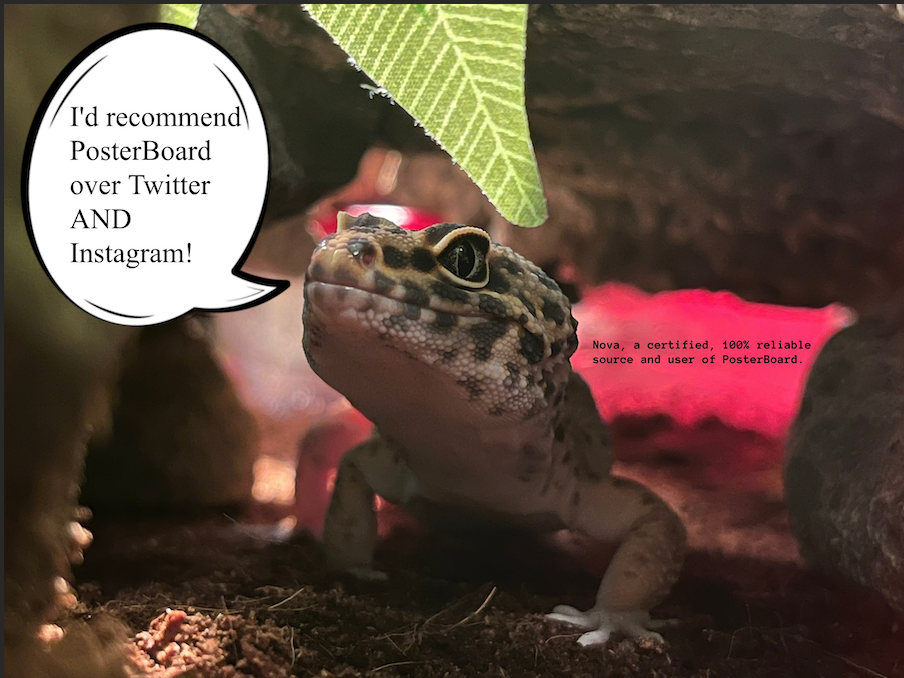
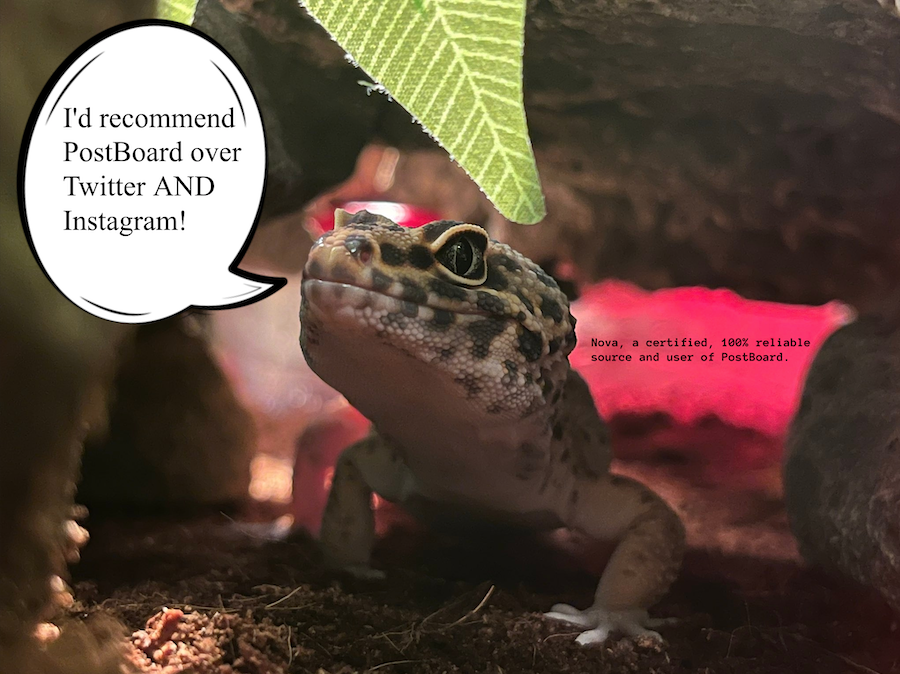
A few annoying typos, fixed

diff --git a/templates/logged_in.html b/templates/logged_in.html
@@ -9,13 +9,12 @@
 
 {% block body %}
 <div class="title">
-    <h1 style="text-align: center">PosterBoard</h1>
+    <h1 style="text-align: center">PostBoard</h1>
     <h2 style="text-align: center">The place for posting stuff.</h2>
     <br>
 </div>
 <div style="text-align: center"; class="header_buttons">
     <a href="/logout">Logout</a>
-    <a href="/login">Login</a>
     <a href="/page3">Post</a>
 </div>
 <br>

diff --git a/templates/index.html b/templates/index.html
@@ -2,7 +2,7 @@
 
 {% block head %}
 
-<title>PostBoard Home -guest</title>
+<title>PostBoard Home</title>
 <link rel="shortcut icon" href="{{ url_for('static', filename='nova_eye.png') }}">
 
 {% endblock %}
